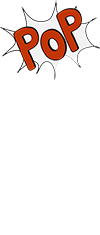
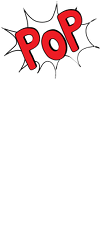
New graphics and other improvements.

diff --git a/app.js b/app.js
@@ -46,6 +46,7 @@ function init(restart) {
 		document.getElementById("b" + i).style.backgroundImage = "url(res/b" + i + ".png)";
 		document.getElementById("b" + i).style.position = "absolute";
 		document.getElementById("b" + i).style.bottom = "-260px";
+		document.getElementById("t" + i).style.bottom = "-360px";
 	}
 	
 	document.getElementById("gameover").style.visibility = "hidden";
@@ -72,12 +73,12 @@ function init(restart) {
 			workerStates[balloon] = 1;
 			balloonSpeeds[balloon] = MAX_SPEED - speed;
 			balloonWorkers[balloon].onmessage = function(event) {
-				if(event.data.y > window.innerHeight + 50 || 
+				if(event.data.y > (window.innerHeight + 110) || 
 					document.getElementById("b" + event.data.b).style.backgroundImage.indexOf(POP_IMAGE) > -1) {
 					this.terminate();
 					workerStates[event.data.b] = 0;
 					balloonSpeeds[event.data.b] = 0;
-					if(event.data.y > window.innerHeight && document.getElementById("time").innerHTML > 10 &&
+					if(event.data.y > (window.innerHeight + 110) && document.getElementById("time").innerHTML > 10 &&
 					   document.getElementById("b" + event.data.b).style.backgroundImage.indexOf(POP_IMAGE) == -1 &&
 					   document.getElementById("b" + event.data.b).style.backgroundImage.indexOf(DEATH_BALLOON) == -1 &&
 					   document.getElementById("b" + event.data.b).style.backgroundImage.indexOf(MORE_TIME_BALLOON) == -1) {
@@ -87,6 +88,10 @@ function init(restart) {
 				} else {
 					document.getElementById("b" + event.data.b).style.bottom = event.data.y + "px";
 					document.getElementById("b" + event.data.b).style.left = event.data.x + "px";
+					document.getElementById("t" + event.data.b).style.bottom = (event.data.y - 98) + "px";
+					document.getElementById("t" + event.data.b).style.left = (event.data.x + 23) + "px";
+					var tail = ((event.data.y % 2) == 0) ? "1" : "0";
+					document.getElementById("t" + event.data.b).style.backgroundImage = "url(res/tail" + tail + ".png)";
 				}
 			};	
 		}
@@ -130,12 +135,18 @@ function pop(id) {
 			document.getElementById("time").innerHTML = 
 				(document.getElementById("time").innerHTML * 1) + 10;
 		}
+		var tail = document.getElementById("t" + index);
 		playAudio(POP_AUDIO, true);
+		element.style.width = "100px";
 		element.style.backgroundImage = "url(" + POP_IMAGE + ")";
+		tail.style.visibility = "hidden";
 		var timeout = setTimeout(function() {
 			element.style.visibility = "hidden";
 			element.style.bottom = "-260px";
 			element.style.visibility = "visible";
+			tail.style.visibility = "visible";
+			tail.style.bottom = "-360px";
+			element.style.width = "50px";
 		}, 300);
 		element.onclick = function() { pop(this.id); };
 		element.ontouchstart = function() { pop(this.id); };

diff --git a/index.html b/index.html
@@ -17,11 +17,17 @@
 		<span id="time-label" class="time-label">Time</span>
 		<span id="time" class="time">60</span>
 		<div id="b0" class="balloon" ontouchstart="pop('b0');" onclick="pop('b0');"></div>
+		<div class="tail" id="t0"></div>
 		<div id="b1" class="balloon" ontouchstart="pop('b1');" onclick="pop('b1');"></div>
+		<div class="tail" id="t1"></div>
 		<div id="b2" class="balloon" ontouchstart="pop('b2');" onclick="pop('b2');"></div>
-		<div id="b3" class="balloon" ontouchstart="pop('b3');" onclick="pop('b3');"></div>
+		<div class="tail" id="t2"></div>
+		<div id="b3" class="balloon" ontouchstart="pop('b3');" onclick="pop('b3');"></div>'
+		<div class="tail" id="t3"></div>
 		<div id="b4" class="balloon" ontouchstart="pop('b4');" onclick="pop('b4');"></div>
+		<div class="tail" id="t4"></div>
 		<div id="b5" class="balloon" ontouchstart="pop('b5');" onclick="pop('b5');"></div>
+		<div class="tail" id="t5"></div>
 		<div class="gameover" id="gameover">
 			<p>Game over!</p>
 			<p>Your ranking: <span id="ranking">1</span></p>
